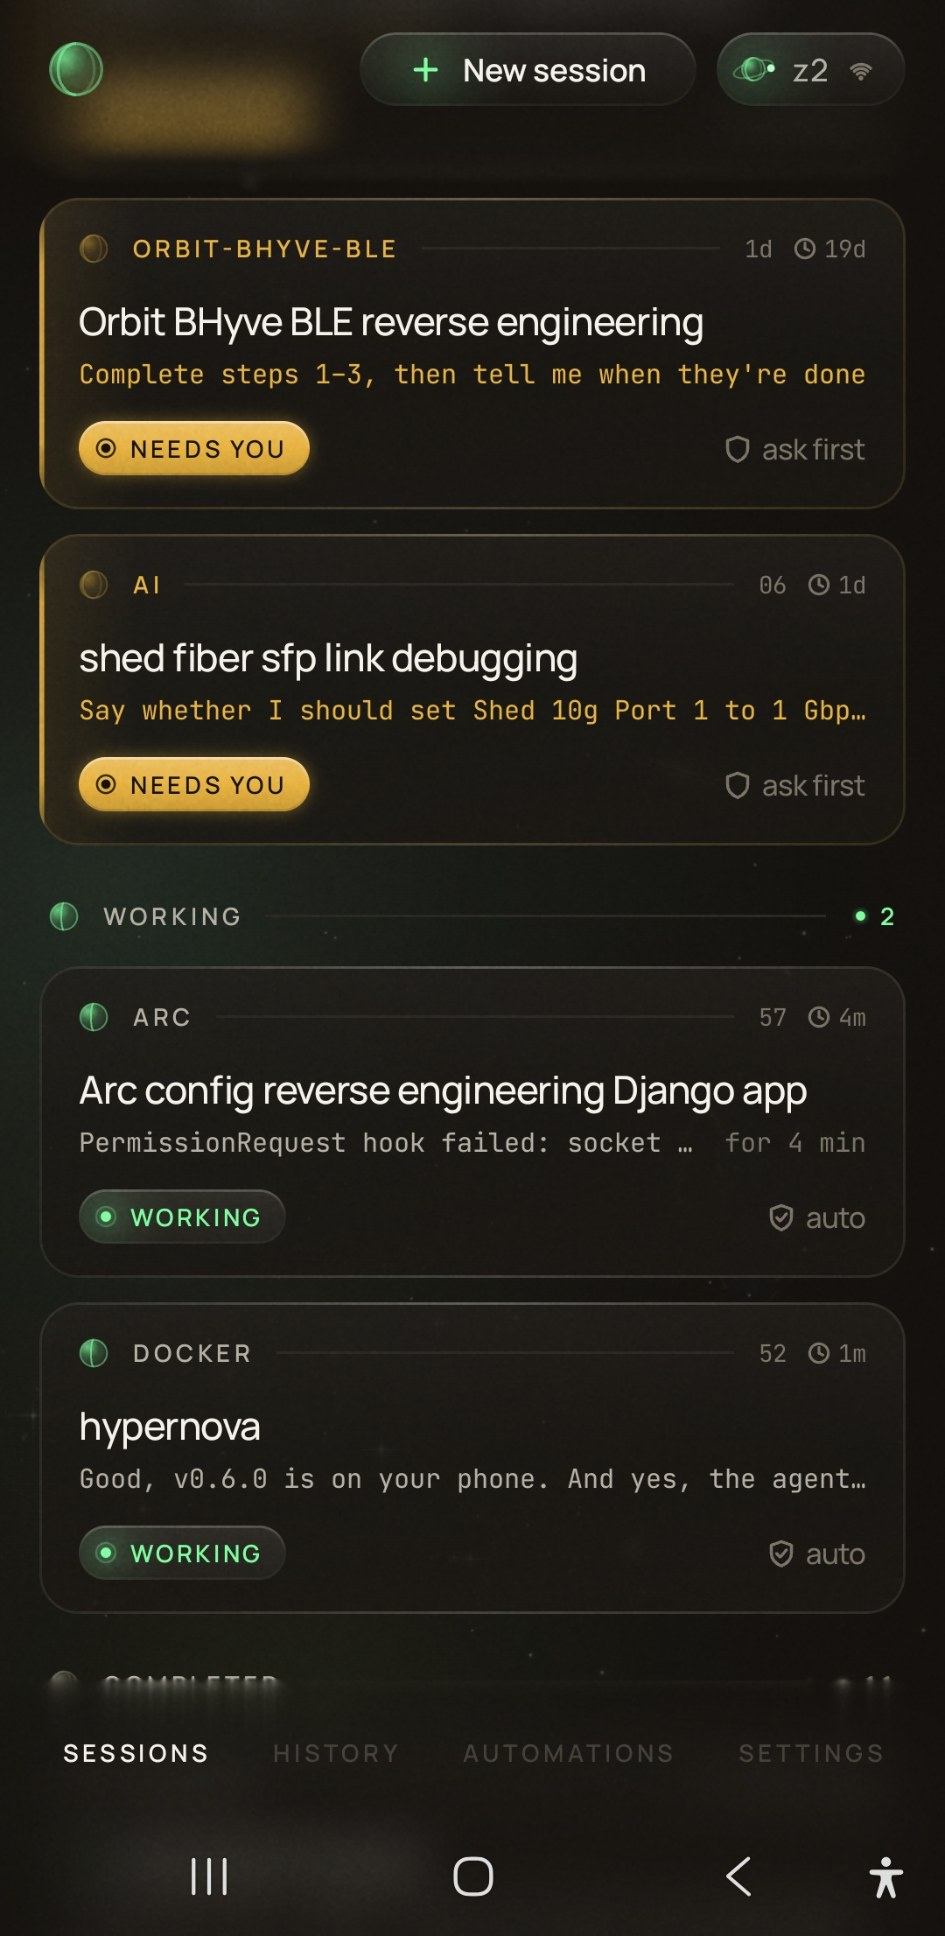
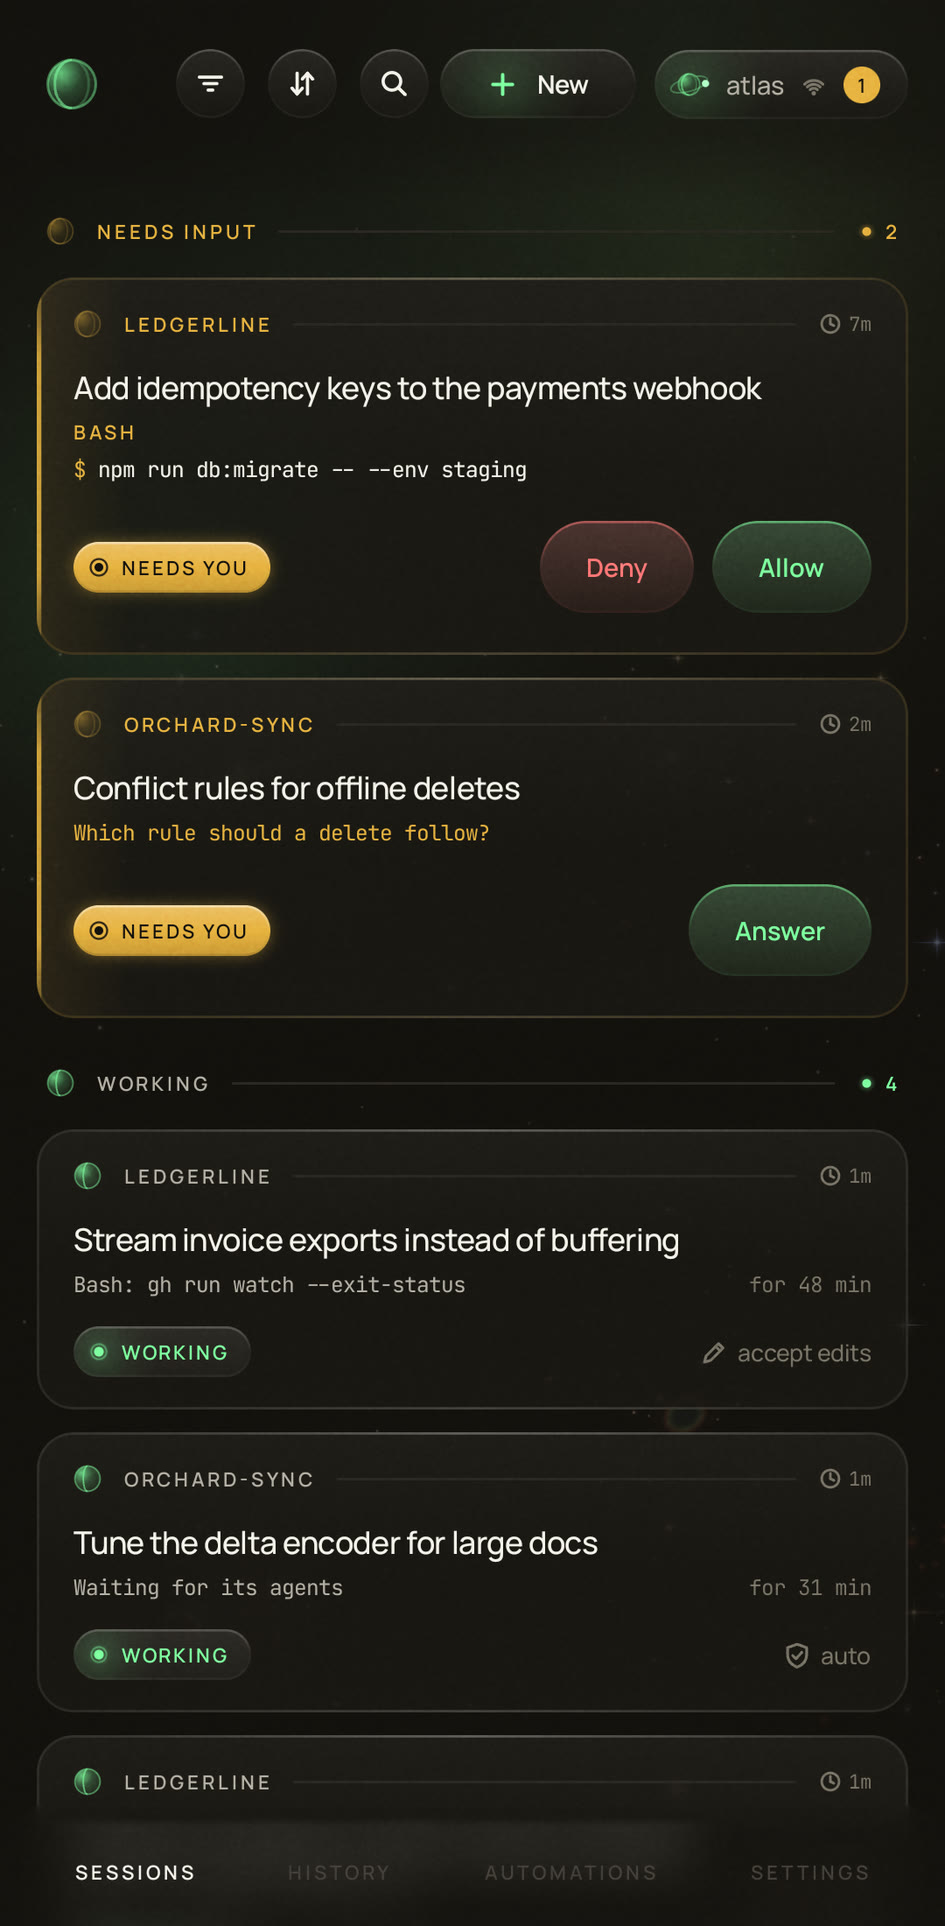
docs: six new README screenshots from the demo server, with nothing real in them

diff --git a/README.md b/README.md
@@ -12,16 +12,18 @@ through a cloud service of ours, the phone talks straight to your server.
 
 <table>
   <tr>
-    <td><img src="docs/images/shot-home.jpg" width="180" alt="Home: sessions grouped by what needs you, what's working and what's done"></td>
-    <td><img src="docs/images/shot-chat.jpg" width="180" alt="A session's chat with its workflow status"></td>
-    <td><img src="docs/images/shot-new-session.jpg" width="180" alt="Starting a new session: folder, model, effort and mode"></td>
-    <td><img src="docs/images/shot-statistics.jpg" width="180" alt="Statistics: hours, tokens and the last 30 days"></td>
-    <td><img src="docs/images/shot-automations.jpg" width="180" alt="Automations: work on a schedule or when something happens"></td>
+    <td><img src="docs/images/shot-home.jpg" width="150" alt="Home: sessions grouped by what needs input and what's working, with Allow and Deny on a card that waits for an answer"></td>
+    <td><img src="docs/images/shot-chat.jpg" width="150" alt="A session's chat: a denied push, Claude's report, and the workflow's status line with a divider for each step"></td>
+    <td><img src="docs/images/shot-changes.jpg" width="150" alt="What changed: a file's diff under review, with its syntax coloured"></td>
+    <td><img src="docs/images/shot-all-servers.jpg" width="150" alt="All servers: sessions from several machines in one list, each card naming its machine"></td>
+    <td><img src="docs/images/shot-statistics.jpg" width="150" alt="Statistics: hours, tokens and the last 30 days"></td>
+    <td><img src="docs/images/shot-automations.jpg" width="150" alt="Automations: work on a schedule or when something happens"></td>
   </tr>
   <tr>
     <td>Home</td>
     <td>A session</td>
-    <td>New session</td>
+    <td>Code review</td>
+    <td>All servers</td>
     <td>Statistics</td>
     <td>Automations</td>
   </tr>
